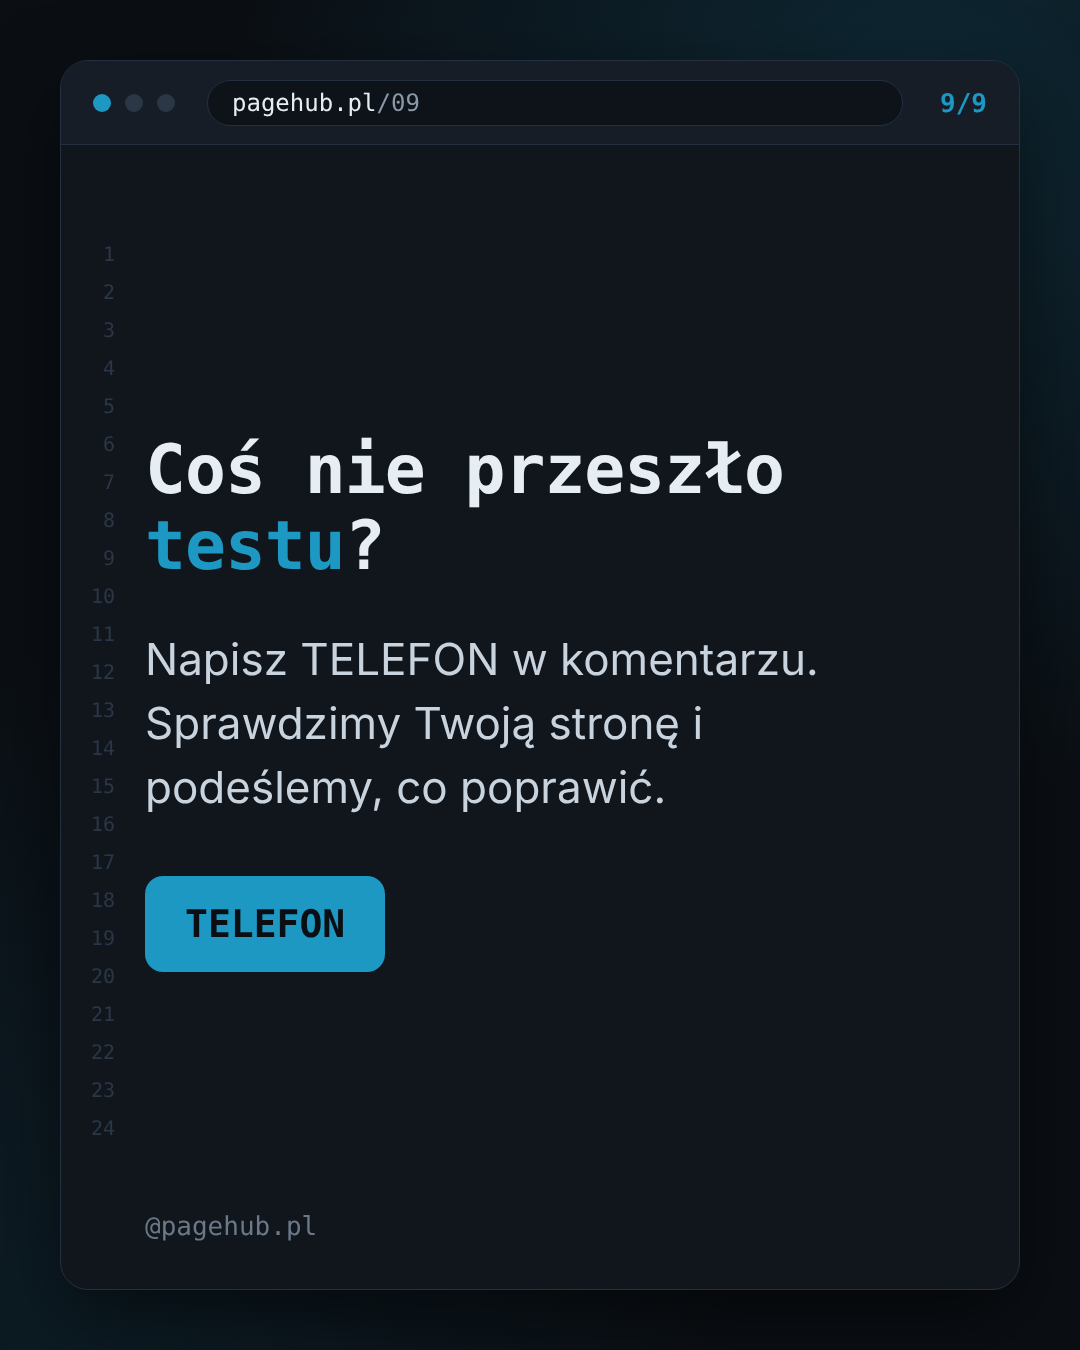
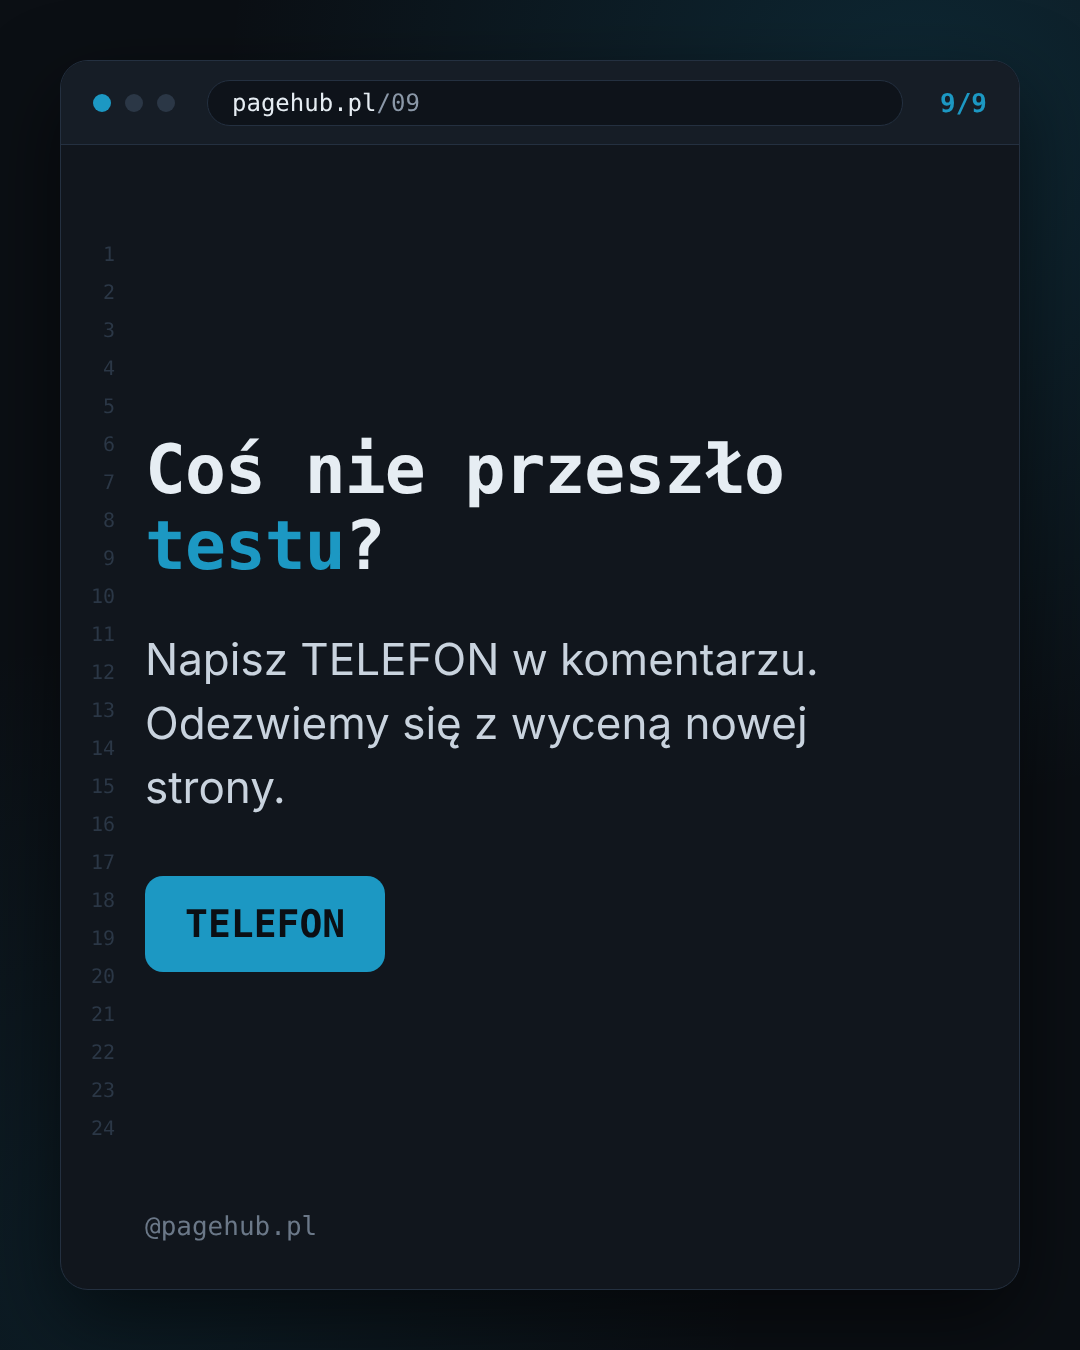
Cennik w facts.md, bez darmowych ofert; CTA czwartek i sobota na wycenę
Claude-Session: https://claude.ai/code/session_018HQzMyB2YALVxmghGEaSRE

Changed region(s): [[0.1222, 0.5289, 0.7639, 0.6222]]

diff --git a/weeks/2026-11-02/index.html b/weeks/2026-11-02/index.html
@@ -61,7 +61,7 @@ footer { color: var(--muted); font-size: 13px; border-top: 1px solid var(--line)
     <p class="how">Przejrzyj, popraw co chcesz i zaplanuj w <b>Meta Business Suite</b>: wgraj slajdy w kolejności, wklej podpis, ustaw godzinę z etykiety. Wszystkie pliki są też w paczce ZIP w czacie.</p>
   </header>
   <article>
-  <div class="meta"><span class="chip when">wtorek 3.11, 19:00</span>
+  <div class="meta"><span class="chip when">wtorek 3.11, 12:10</span>
   <span class="chip">Edukacja</span><span class="chip">9 slajdów</span></div>
   <h2>5 rzeczy, które spowalniają stronę firmy</h2>
   <div class="strip"><img src="k1/01.png" alt="Okładka karuzeli PageHub: napis Ponad 3 sekundy? Tracisz klientów oraz 5 rzeczy, które spowalniają stronę Twojej firmy, na ciemnym tle w stylu okna przeglądarki." loading="lazy" width="1080" height="1350"><img src="k1/02.png" alt="Slajd 2 z 9" loading="lazy" width="1080" height="1350"><img src="k1/03.png" alt="Slajd 3 z 9" loading="lazy" width="1080" height="1350"><img src="k1/04.png" alt="Slajd 4 z 9" loading="lazy" width="1080" height="1350"><img src="k1/05.png" alt="Slajd 5 z 9" loading="lazy" width="1080" height="1350"><img src="k1/06.png" alt="Slajd 6 z 9" loading="lazy" width="1080" height="1350"><img src="k1/07.png" alt="Slajd 7 z 9" loading="lazy" width="1080" height="1350"><img src="k1/08.png" alt="Slajd 8 z 9" loading="lazy" width="1080" height="1350"><img src="k1/09.png" alt="Slajd 9 z 9" loading="lazy" width="1080" height="1350"></div>
@@ -109,7 +109,7 @@ Klient szuka lokalnej firmy w kolejce, w autobusie, wieczorem na kanapie. Rzadko
 
 Sprawdź 5 rzeczy: czy tekst da się czytać bez powiększania, czy numer telefonu można kliknąć, czy przyciski nie są za małe, czy adres i godziny widać od razu i czy formularz w ogóle działa.
 
-Coś nie przeszło? Napisz TELEFON w komentarzu, sprawdzimy Twoją stronę i podeślemy, co poprawić.
+Coś nie przeszło? Napisz TELEFON w komentarzu, odezwiemy się z wyceną nowej strony.
 
 #stronywww #stronadlafirmy #lokalnybiznes #przemyśl #podkarpacie</p>
 </div>
@@ -125,7 +125,7 @@ Sprawdź 5 rzeczy:
 4. Czy adres i godziny otwarcia widać od razu?
 5. Czy formularz kontaktowy naprawdę wysyła wiadomość?
 
-Pięć razy tak? Świetnie. Jeśli coś nie zagrało, napisz do nas, sprawdzimy stronę i podpowiemy, co poprawić: https://pagehub.pl</p>
+Pięć razy tak? Świetnie. Jeśli coś nie zagrało, napisz do nas. Landing page robimy od 800 zł, stronę firmową od 1500 zł, a dokładną wycenę przygotujemy po krótkiej rozmowie: https://pagehub.pl</p>
 </div>
   </div>
   <p class="alt"><b>Tekst alternatywny okładki:</b> Okładka karuzeli PageHub: napis 5 błędów Twojej strony na telefonie oraz Sprawdzisz je w 5 minut, zanim zauważy je klient.</p>

diff --git a/WEEKLY.md b/WEEKLY.md
@@ -28,7 +28,7 @@ Wszystkie ścieżki poniżej są względem katalogu repo.
 - Podział według `config/pillars.md`, terminy z `config/brand.md`.
 - Dla każdej: filar, temat, konkretny kąt (nie "SEO", tylko "3 rzeczy, przez które Google nie pokazuje Twojej firmy w Mapach"), termin.
 - Każda liczba spoza `facts.md` musi mieć publiczne źródło: sprawdź ją wyszukiwarką i wpisz link w `plan.md`. Bez źródła nie ma liczby.
-- Niczego nie wymyślaj o PageHub: klientów, wyników, opinii, terminów realizacji, cen.
+- Niczego nie wymyślaj o PageHub: klientów, wyników, opinii, terminów realizacji. Ceny tylko z `facts.md`, zawsze jako "od".
 - Bez tematów politycznych, kontrowersyjnych, o konkurencji z nazwy.
 
 ## 3. Napisz -> `weeks/<data>/k1.json`, `k2.json`, `k3.json`
@@ -67,7 +67,7 @@ Zasady:
 - Podpis IG: pierwsza linia z konkretem, jedno wezwanie do działania, 3-5 hashtagów na końcu.
 - Podpis FB: osobna wersja, swobodniejsza, może mieć link https://pagehub.pl.
 - W tygodniu przynajmniej jedna karuzela z CTA na słowo-klucz w komentarzu (to źródło klientów), pozostałe: zapisz / napisz DM.
-- Obietnice w CTA tylko zgodne z `facts.md` (np. sprawdzenie strony, odświeżenie wyglądu). Bez cen i terminów.
+- Obietnice w CTA tylko zgodne z `facts.md` (np. wycena, rozmowa o stronie). Nigdy nic za darmo: bez darmowych audytów, sprawdzeń ani poprawek.
 - Zero długich myślników (— i –) w czymkolwiek.
 
 ## 4. Bramki jakości (wszystkie muszą przejść)

diff --git a/config/facts.md b/config/facts.md
@@ -11,9 +11,13 @@ Tylko to, co tu jest, może pojawić się jako fakt o PageHub. Nowe fakty dopisu
 ## Realizacje
 - Envision Studio (envisionstudio.pl) - strona dla trenera personalnego z Przemyśla.
 
-## Oferta
-- Darmowe odświeżenie wyglądu strony dla firm, których strona wygląda na przestarzałą (w zamian liczymy na polecenie i zgodę na pokazanie efektu w portfolio).
+## Oferta i cennik (pagehub.pl/#pricing)
+- Cena zawsze ustalana indywidualnie po rozmowie. Ceny podajemy tylko jako "od", nigdy jako stałą kwotę.
+- Landing Page - od 800 zł: jedna strona, projekt i kodowanie od zera, responsywność (telefon, tablet, komputer), domena na 1 rok w cenie, hosting Netlify (bezpłatny), podstawowe SEO. Dla freelancerów i małych firm, które chcą zaistnieć w sieci.
+- Strona Firmowa - od 1500 zł (polecany): do 5 podstron, projekt i kodowanie od zera, unikalny design dopasowany do marki, responsywność, formularz kontaktowy, domena na 2 lata w cenie, hosting Netlify (bezpłatny), podstawowe SEO, optymalizacja szybkości ładowania, wsparcie po wdrożeniu.
+- Wycena: na zapytanie, formularz na https://pagehub.pl/#contact
 
 ## Czego NIE mówić
+- Że cokolwiek robimy za darmo: audyt, sprawdzenie strony, odświeżenie, poprawki. PageHub nie pracuje za darmo.
 - Że mamy wielu klientów, lata doświadczenia jako agencja albo konkretne wyniki sprzedażowe klientów.
 - Nazwisk klientów bez ich zgody.

diff --git a/config/pillars.md b/config/pillars.md
@@ -9,6 +9,6 @@
 
 ## Tydzień = 3 karuzele
 - Zwykle: 2 x Edukacja + 1 x (Kulisy, Case study albo Oferta na zmianę).
-- Oferta (darmowe odświeżenie strony) najwyżej raz na 2 tygodnie.
+- Oferta (Landing Page od 800 zł, Strona Firmowa od 1500 zł, cennik w `facts.md`) najwyżej raz na 2 tygodnie.
 - Nie powtarzaj tematu z ostatnich 4 tygodni (patrz `log.md`).
 - Pomysły z `ideas.md` mają pierwszeństwo przed wymyślonymi.
